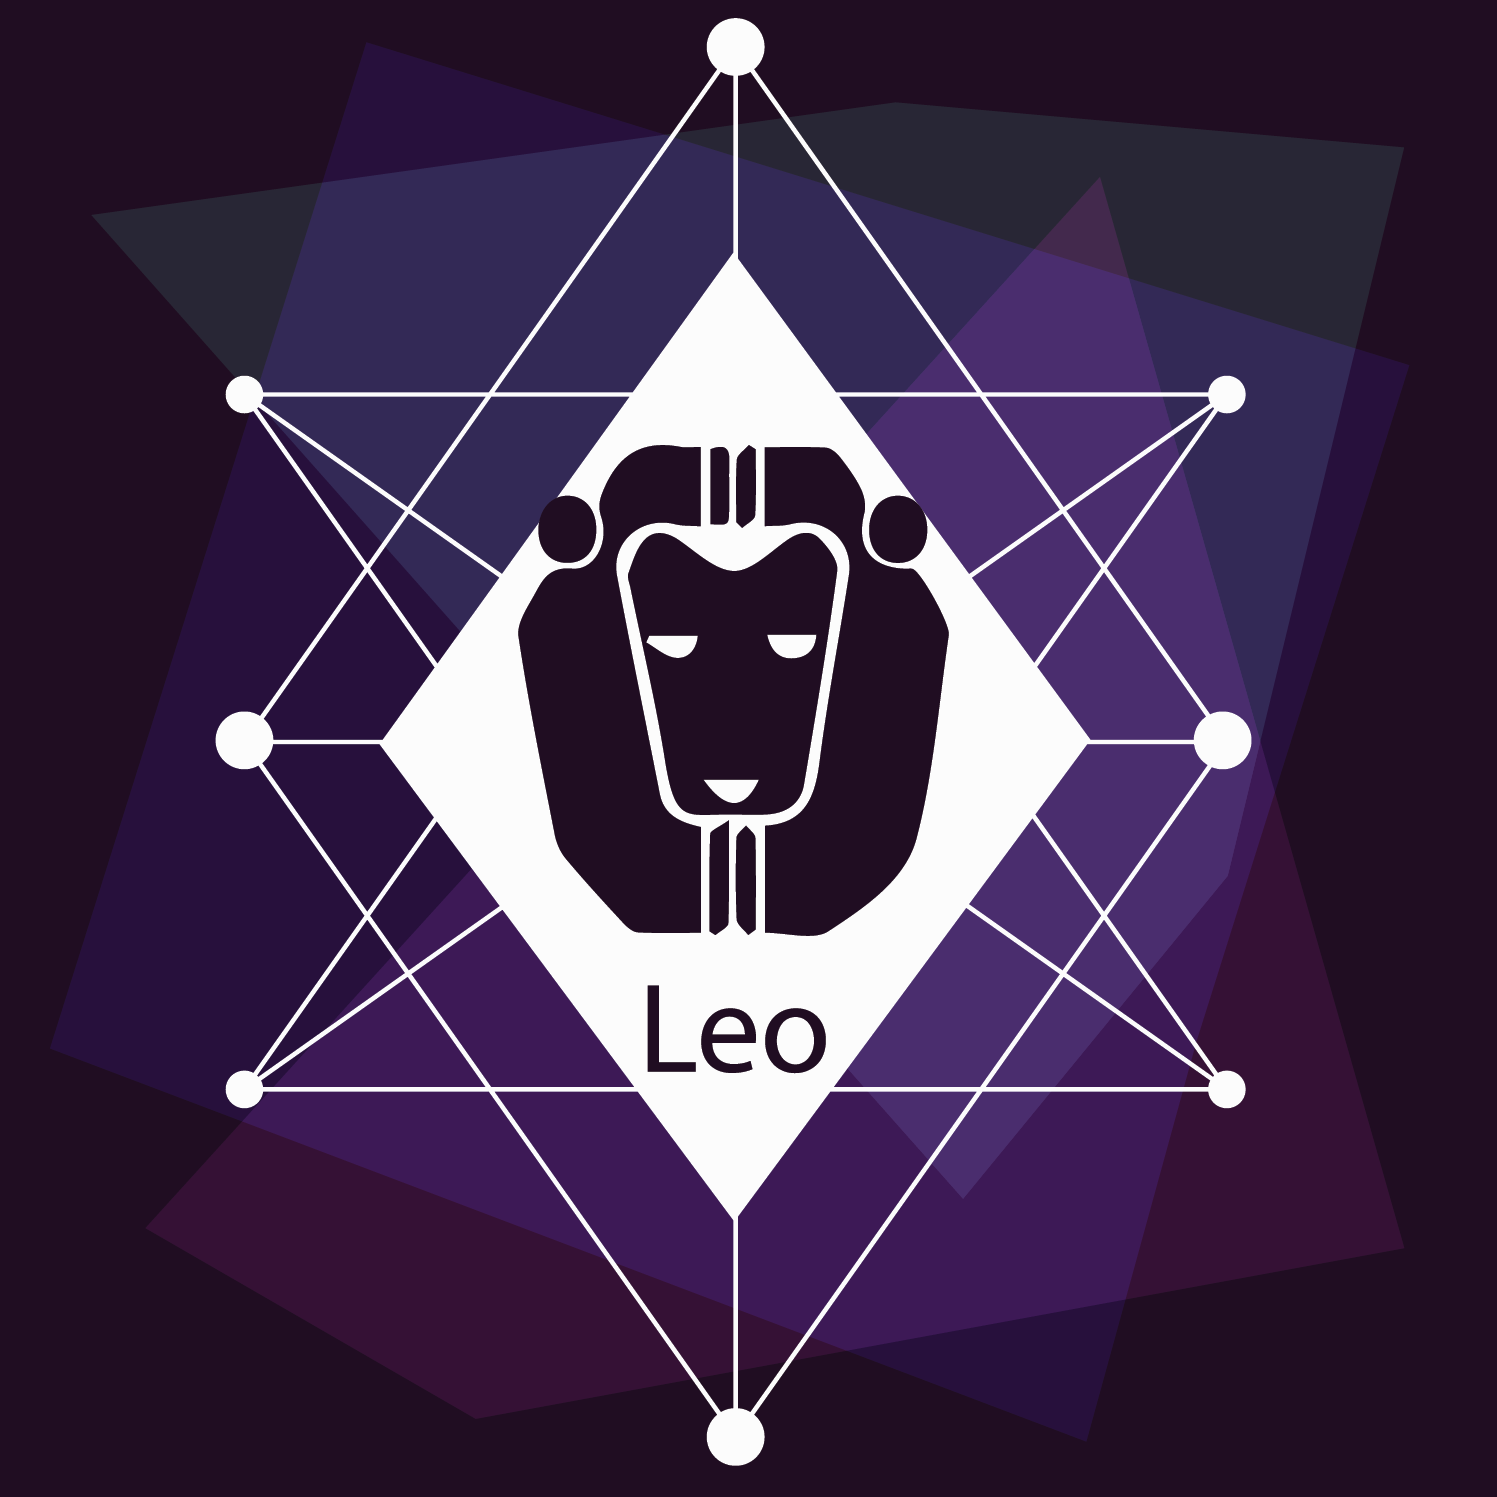
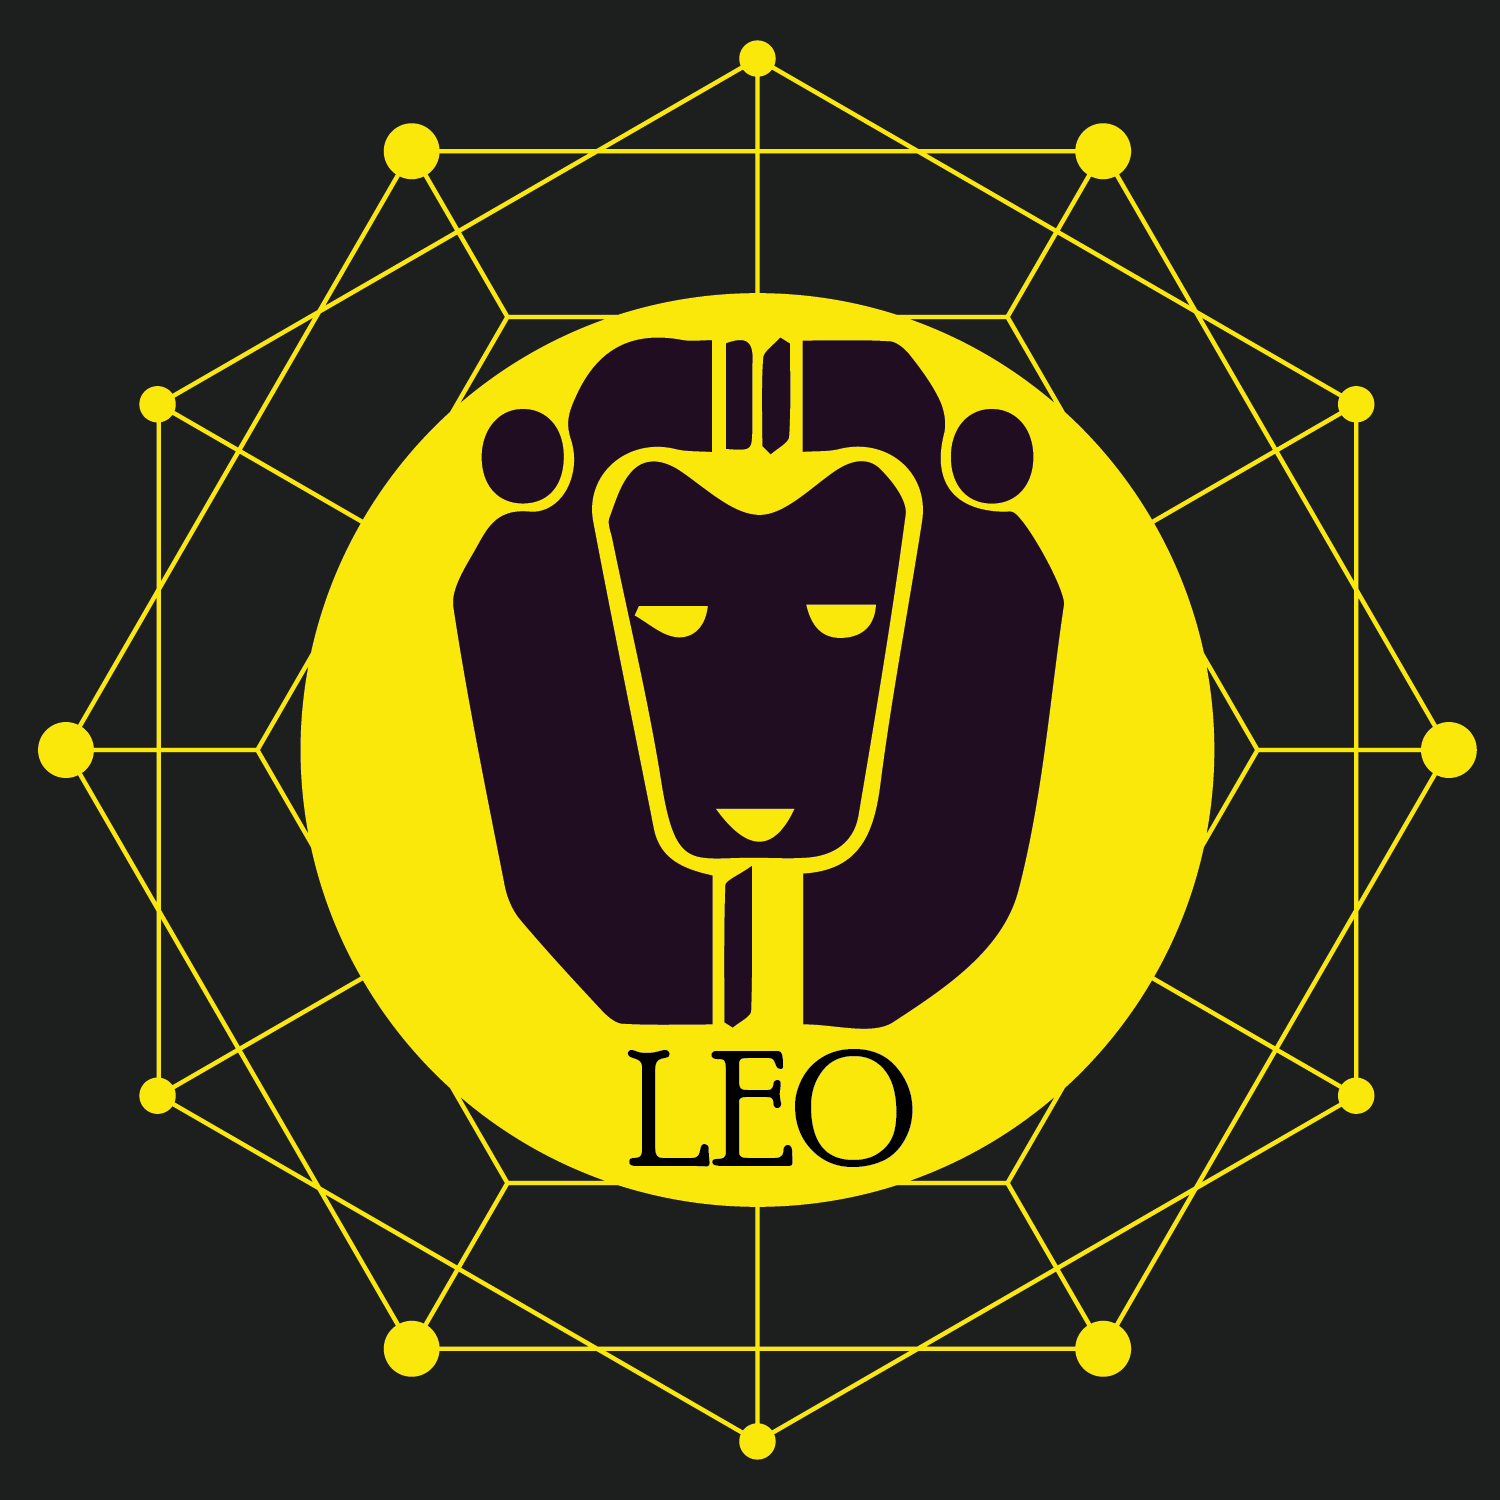
changed style of zodiac images to suit website aesthetic.

diff --git a/index.html b/index.html
@@ -62,20 +62,20 @@
                 <div class="row zodiac-icons">
                     <div class="column">
                     <a href="horoscopes.html"><img class="rounded-circle" src="../assets/images/aries.png"></a>
-                    <a href="horoscopes.html"><img class="rounded-circle" src="../assets/images/Taurus.png"></a>
-                    <a href="horoscopes.html"><img class="rounded-circle" src="../assets/images/gemini.png"></a>
                     <a href="horoscopes.html"><img class="rounded-circle" src="../assets/images/cancer.png"></a>
-                    </div>
-                    <div class="column">
                     <a href="horoscopes.html"><img class="rounded-circle" src="../assets/images/leo.png"></a>
-                    <a href="horoscopes.html"><img class="rounded-circle" src="../assets/images/virgo.png"></a>
-                    <a href="horoscopes.html"><img class="rounded-circle" src="../assets/images/libra.png"></a>
-                    <a href="horoscopes.html"><img class="rounded-circle" src="../assets/images/scorpio.png"></a>
+                    <a href="horoscopes.html"><img class="rounded-circle" src="../assets/images/capricorn.png"></a>
                     </div>
                     <div class="column">
-                    <a href="horoscopes.html"><img class="rounded-circle" src="../assets/images/sagittarius.png"></a>
-                    <a href="horoscopes.html"><img class="rounded-circle" src="../assets/images/capricorn.png"></a>
+                    <a href="horoscopes.html"><img class="rounded-circle" src="../assets/images/Taurus.png"></a>
+                    <a href="horoscopes.html"><img class="rounded-circle" src="../assets/images/leo.png"></a>
+                    <a href="horoscopes.html"><img class="rounded-circle" src="../assets/images/scorpio.png"></a>
                     <a href="horoscopes.html"><img class="rounded-circle" src="../assets/images/aquarius.png"></a>
+                    </div>
+                    <div class="column">
+                    <a href="horoscopes.html"><img class="rounded-circle" src="../assets/images/gemini.png"></a>
+                    <a href="horoscopes.html"><img class="rounded-circle" src="../assets/images/virgo.png"></a>
+                    <a href="horoscopes.html"><img class="rounded-circle" src="../assets/images/sagittarius.png"></a>
                     <a href="horoscopes.html"><img class="rounded-circle" src="../assets/images/pisces.png"></a>
                     </div>
                     
